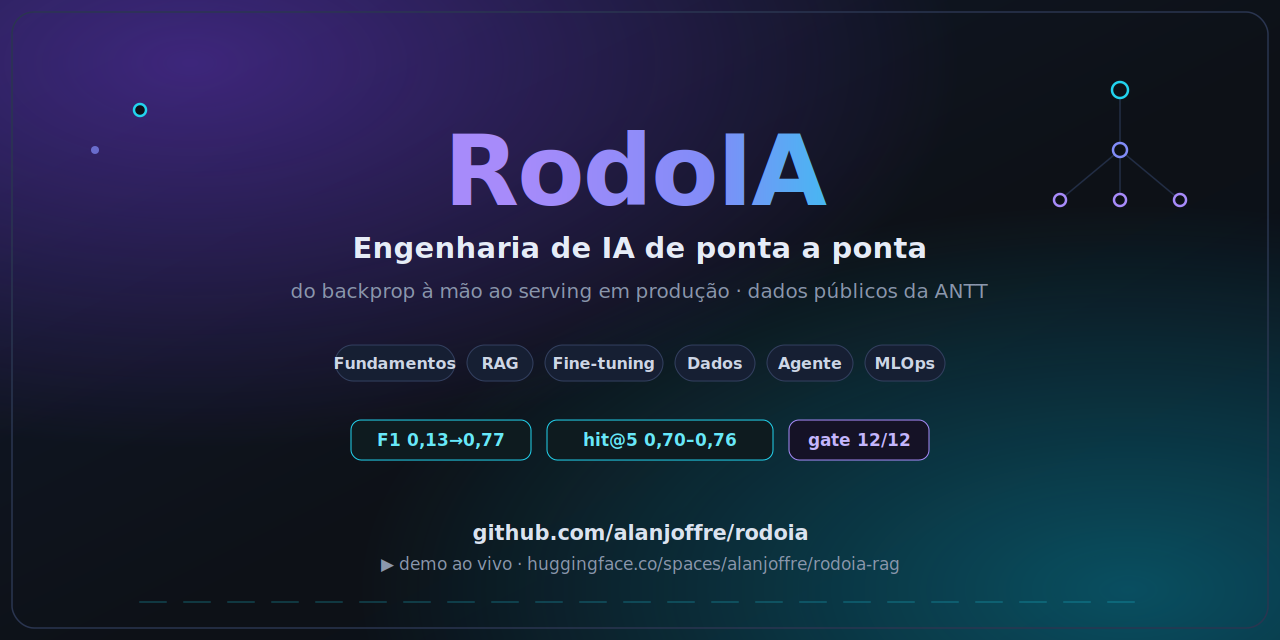
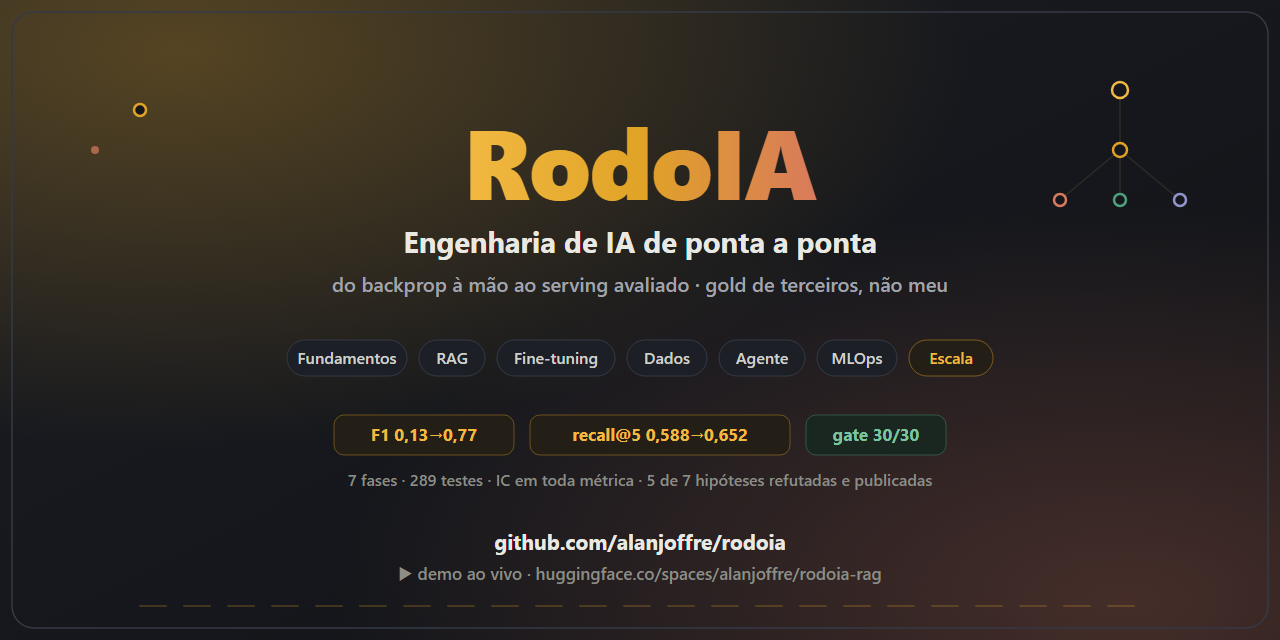
assets: regera a imagem social — dados corrigidos e paleta nova
A imagem anunciava "gate 12/12" com 30 portoes no codigo, listava 6 fases (sem a
Fase 6) e dizia "serving em producao" — a mesma imprecisao que o titulo do perfil
tinha: o deploy em nuvem nao foi executado.

DADOS (todos conferidos contra os relatorios versionados)
- gate 12/12 -> gate 30/30
- pill nova "Escala", destacada, fechando as 7 fases
- hit@5 0,70-0,76 (Fase 1) -> recall@5 0,588 -> 0,652 (CUAD, gold de terceiros) —
  e o numero mais diferenciador hoje, e vem de gabarito que nao e do autor
- subtitulo: "ao serving em producao" -> "ao serving avaliado · gold de terceiros,
  nao meu"
- linha nova: 7 fases · 289 testes · IC em toda metrica · 5 de 7 hipoteses
  refutadas e publicadas

PALETA
Trocada de roxo/ciano para ambar/terracota sobre quase-preto — a mesma do
docs/diario.html, o que unifica a identidade visual do projeto. A imagem anterior
ja circulou publicamente; repetir a arte diluiria o post novo.

REPRODUTIBILIDADE
O SVG e a fonte, o PNG e derivado (1280x640, tamanho exato do social preview do
GitHub). Comando de regeracao no RUNBOOK, via Chromium headless — sem adicionar
dependencia de build ao projeto.

Registrado no RUNBOOK, porque ja mordeu: trocar o PNG no repositorio NAO troca o
preview do GitHub (upload separado em Settings), e os numeros dentro do SVG NAO
sao cobertos pelo portao de consistencia — texto em SVG nao e verificado.

diff --git a/docs/RUNBOOK.md b/docs/RUNBOOK.md
@@ -218,6 +218,31 @@ dvc status -c        # deve dizer "Cache and remote are in sync"
 
 ---
 
+## Regerar a imagem social (`assets/social-preview.png`)
+
+A fonte é o **SVG** (`assets/social-preview.svg`); o PNG é derivado. Editar o PNG à mão faz os dois
+divergirem, e é o PNG que o GitHub e o LinkedIn exibem.
+
+```powershell
+& "C:\Program Files (x86)\Microsoft\Edge\Application\msedge.exe" `
+  --headless=new --disable-gpu --hide-scrollbars `
+  --screenshot="assets\social-preview.png" --window-size=1280,640 `
+  "file:///D:/Dev/rodoia/assets/social-preview.svg"
+```
+
+1280×640 é o tamanho exato do *social preview* do GitHub. Qualquer navegador Chromium serve
+(`chrome.exe` idem); não há dependência de build no projeto por causa disso.
+
+> ⚠ **Trocar o PNG no repositório NÃO troca o preview do GitHub.** Ele é carregado à parte, em
+> *Settings → General → Social preview → Upload an image*. Os dois já divergiram: o arquivo dizia
+> `gate 12/12` quando o gate tinha 30 portões, e a imagem publicada continuou a antiga.
+>
+> **Os números da imagem não são cobertos pelo portão de consistência** (`tests/test_consistencia_docs.py`)
+> — texto dentro de SVG não é verificado. Ao mexer no gate, na contagem de testes ou nas métricas
+> de manchete, regere a imagem **manualmente**.
+
+---
+
 ## Mapa de comandos por objetivo
 
 | Quero… | Comando |
